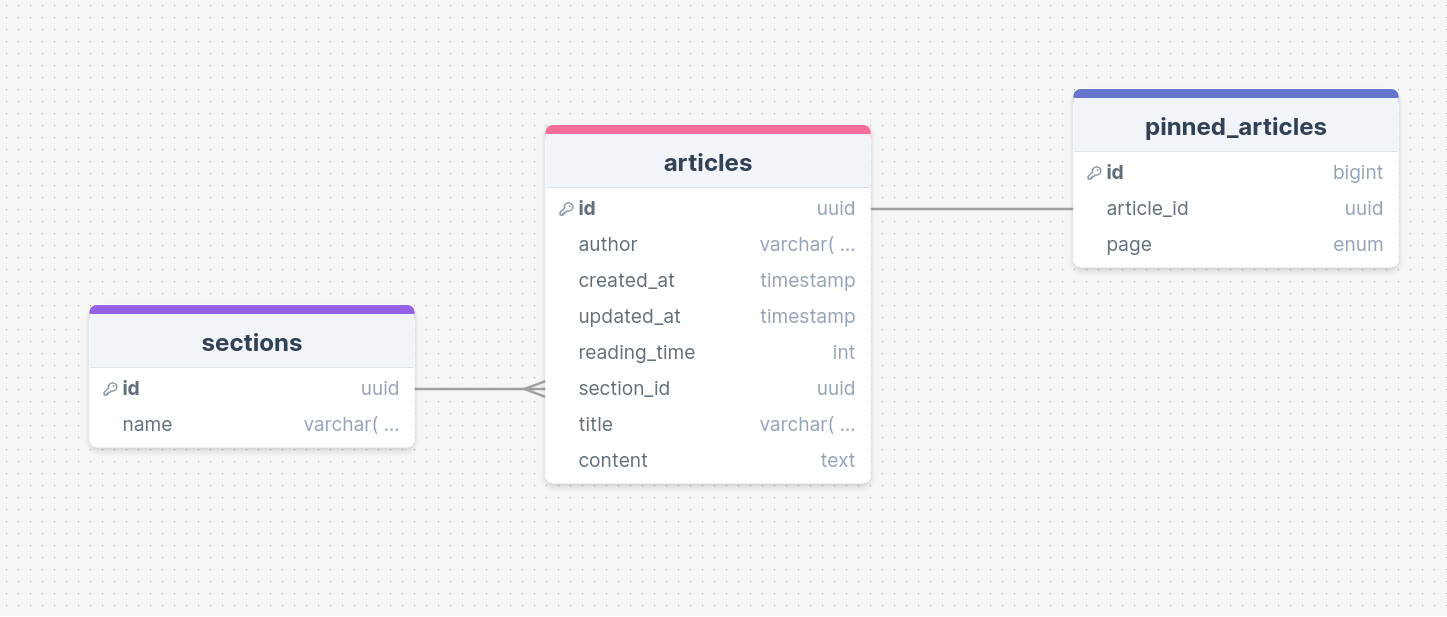
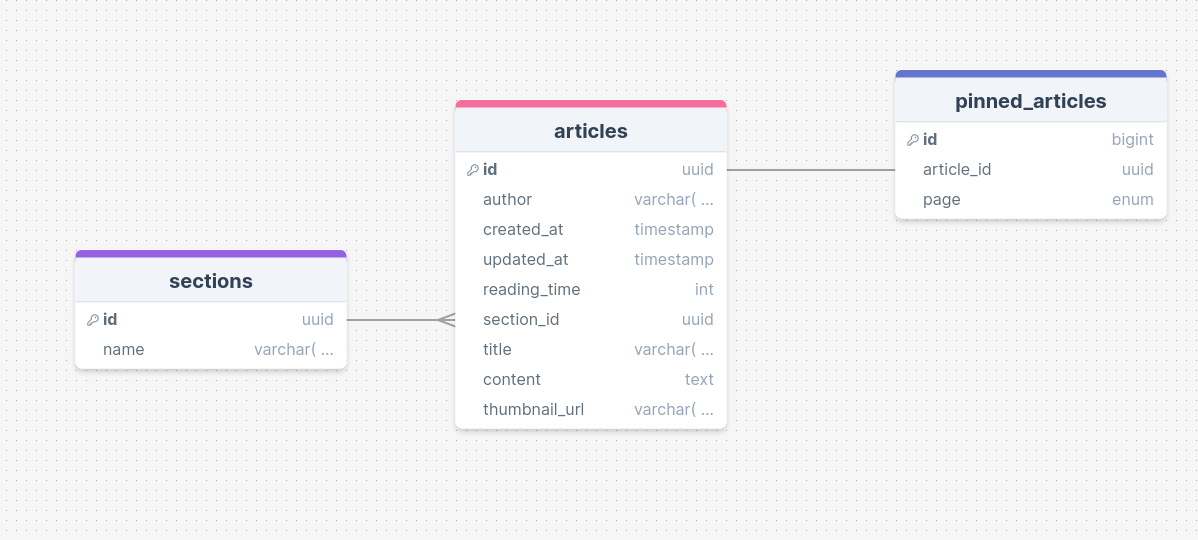
added thumbnail_url field to articles table

diff --git a/README.md b/README.md
@@ -30,6 +30,8 @@ created_at - Время создания статьи,
 
 updated_at - Время последнего редактирования статьи,
 
+thumbnail_url - URL картинки превью статьи,
+
 reading_time - Время чтения статьи в минутах,
 
 section_id - Внешний ключ на раздел статьи (ссылка на id),
@@ -87,6 +89,6 @@ SELECT * FROM articles WHERE id = 'b0a54e15-c8dc-4aa4-b3fb-03bb76f5fb95';
 
 ## Схема БД
 
-![alt text](schema.png)
+![schema](schema.png)
 
 Ссылка на схему: https://drawsql.app/teams/enmex/diagrams/omskhackers
